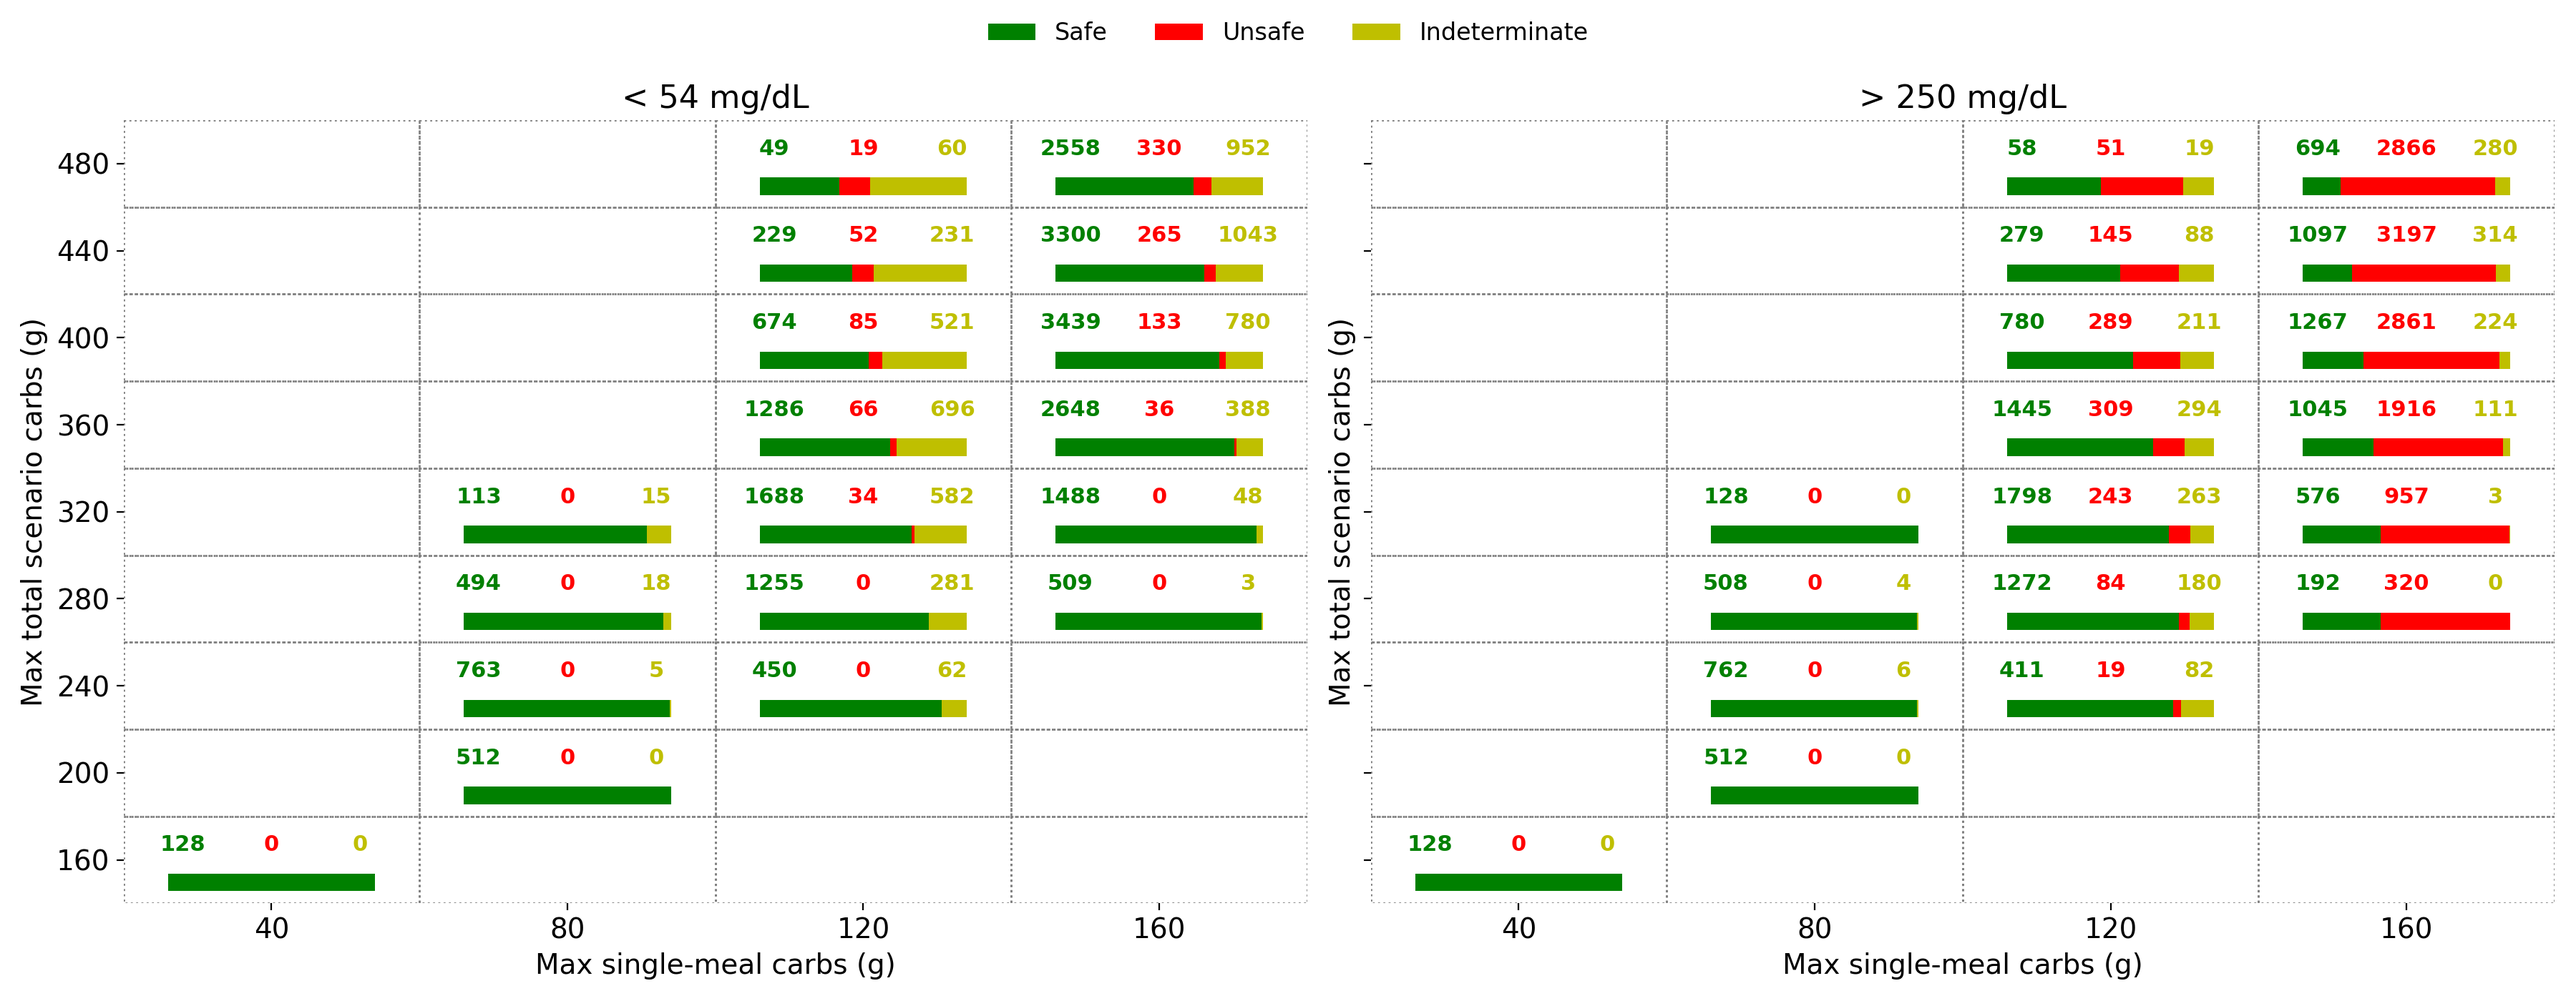
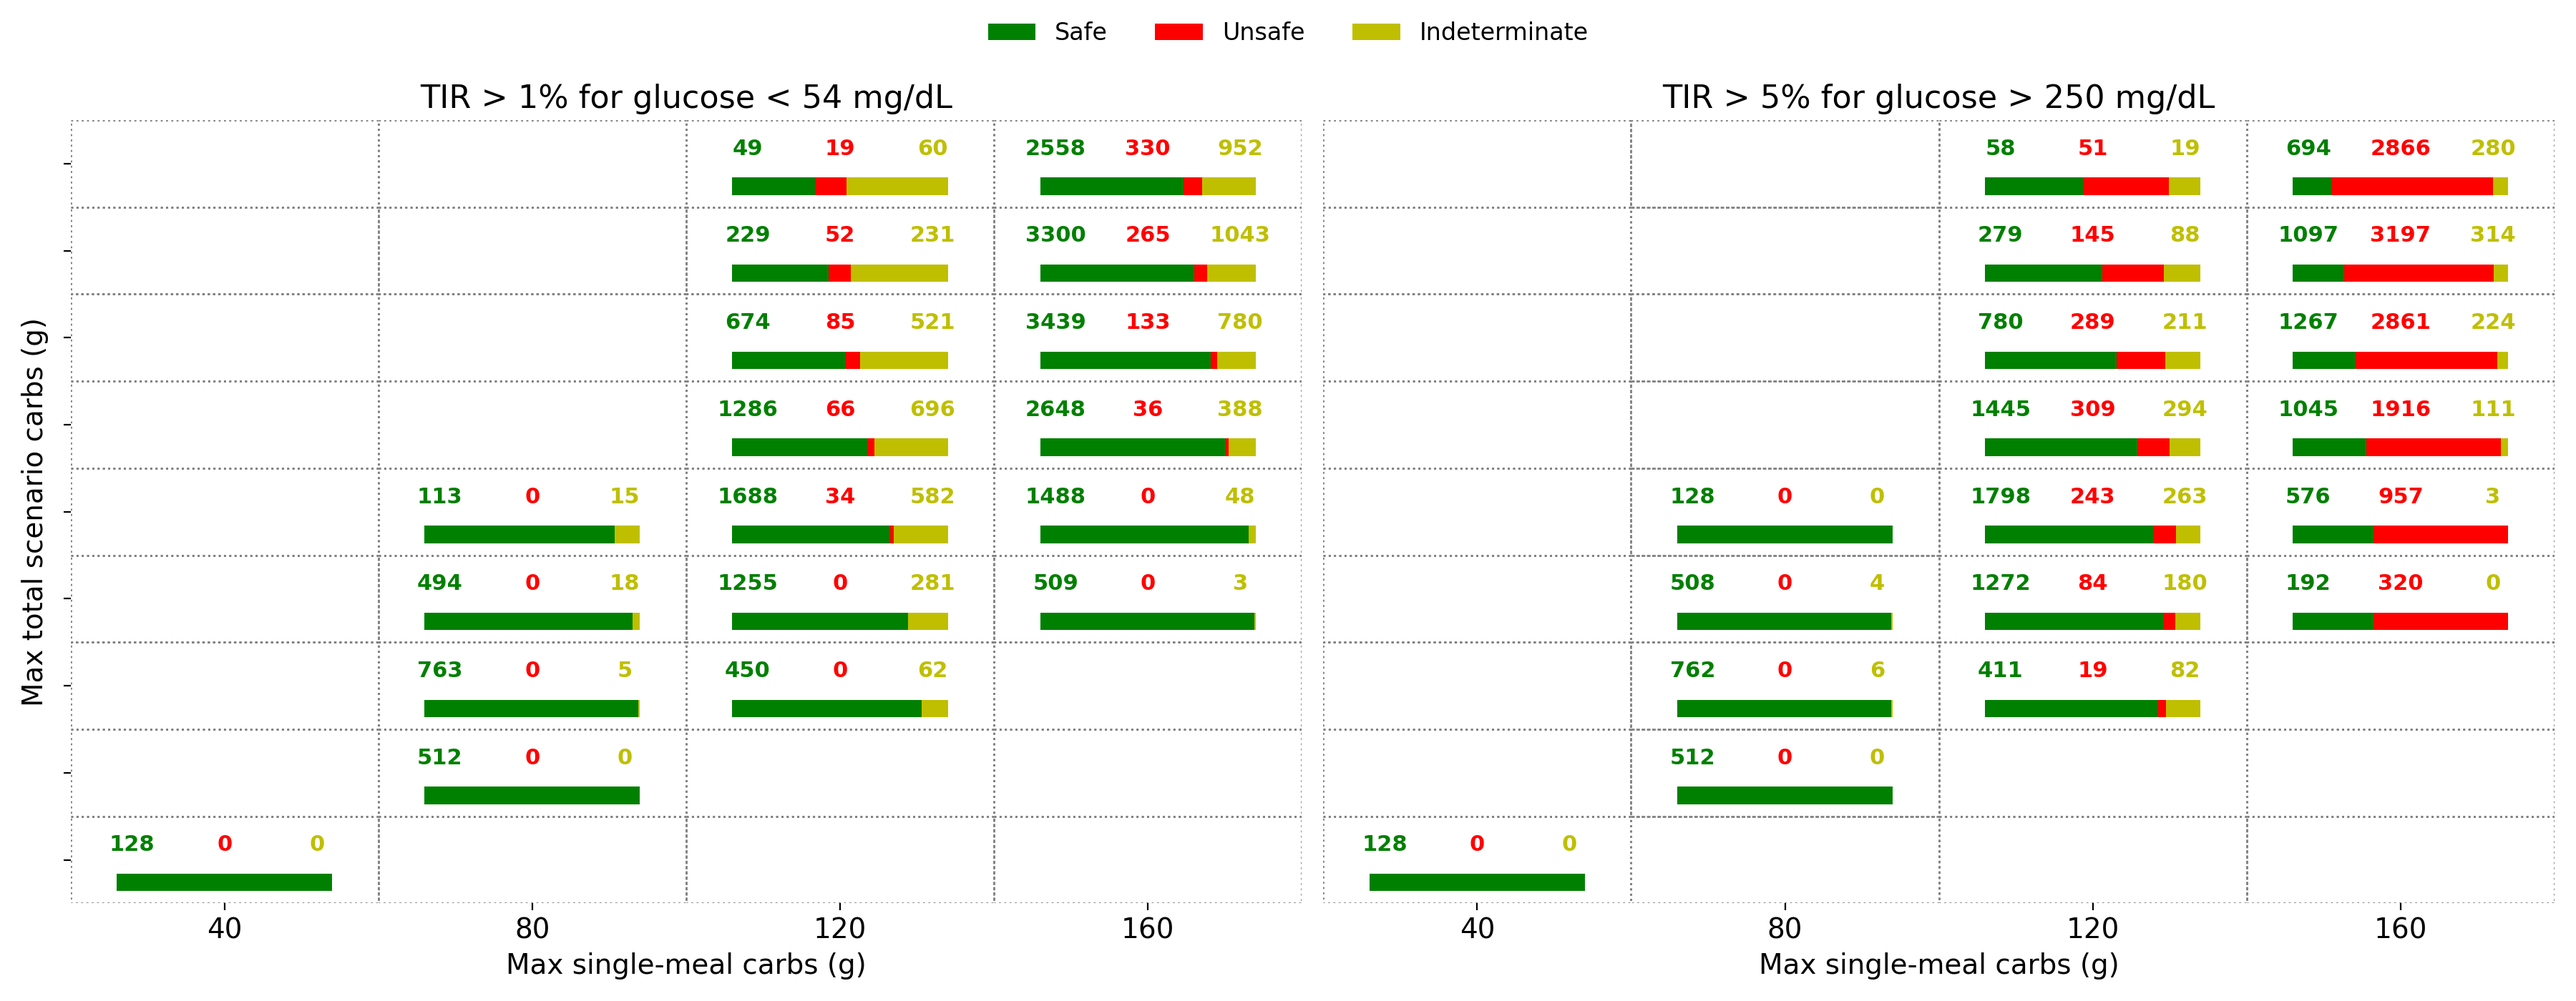
push updated combined figure

diff --git a/pump/analysis.py b/pump/analysis.py
@@ -254,12 +254,18 @@ def multiple_table_analysis(results, figname='combined_table.png'):
         Patch(facecolor='y', label='Indeterminate')
     ]
 
-    titles = ['< 54 mg/dL', '> 250 mg/dL']
+    titles = ['TIR > 1% for glucose < 54 mg/dL', 'TIR > 5% for glucose > 250 mg/dL']
     i = 0
     for ax, zone in zip(axes, zones):
         table_analysis(results(), zone, ax=ax)
         ax.set_title(titles[i], fontsize=16)
         i += 1
+
+    for i, ax in enumerate(axes):
+        if i > 0:  # hide y labels for all but the first plot
+            ax.set_ylabel('')
+            ax.set_yticklabels([])
+            ax.tick_params(axis='y', left=False, labelleft=False)
 
     legend_elements = [
         Patch(facecolor='green', label='Safe'),
@@ -307,6 +313,7 @@ def all_zones_analysis(results: List[Tuple[SimulationScenario, AnalysisTree, Lis
             'Indeterminate': lambda x: f"{x*100:.1f}\\%"
         }
     )
+
     styler = styler.hide(axis='index')
     print(styler.to_latex(hrules=True))
     return df
